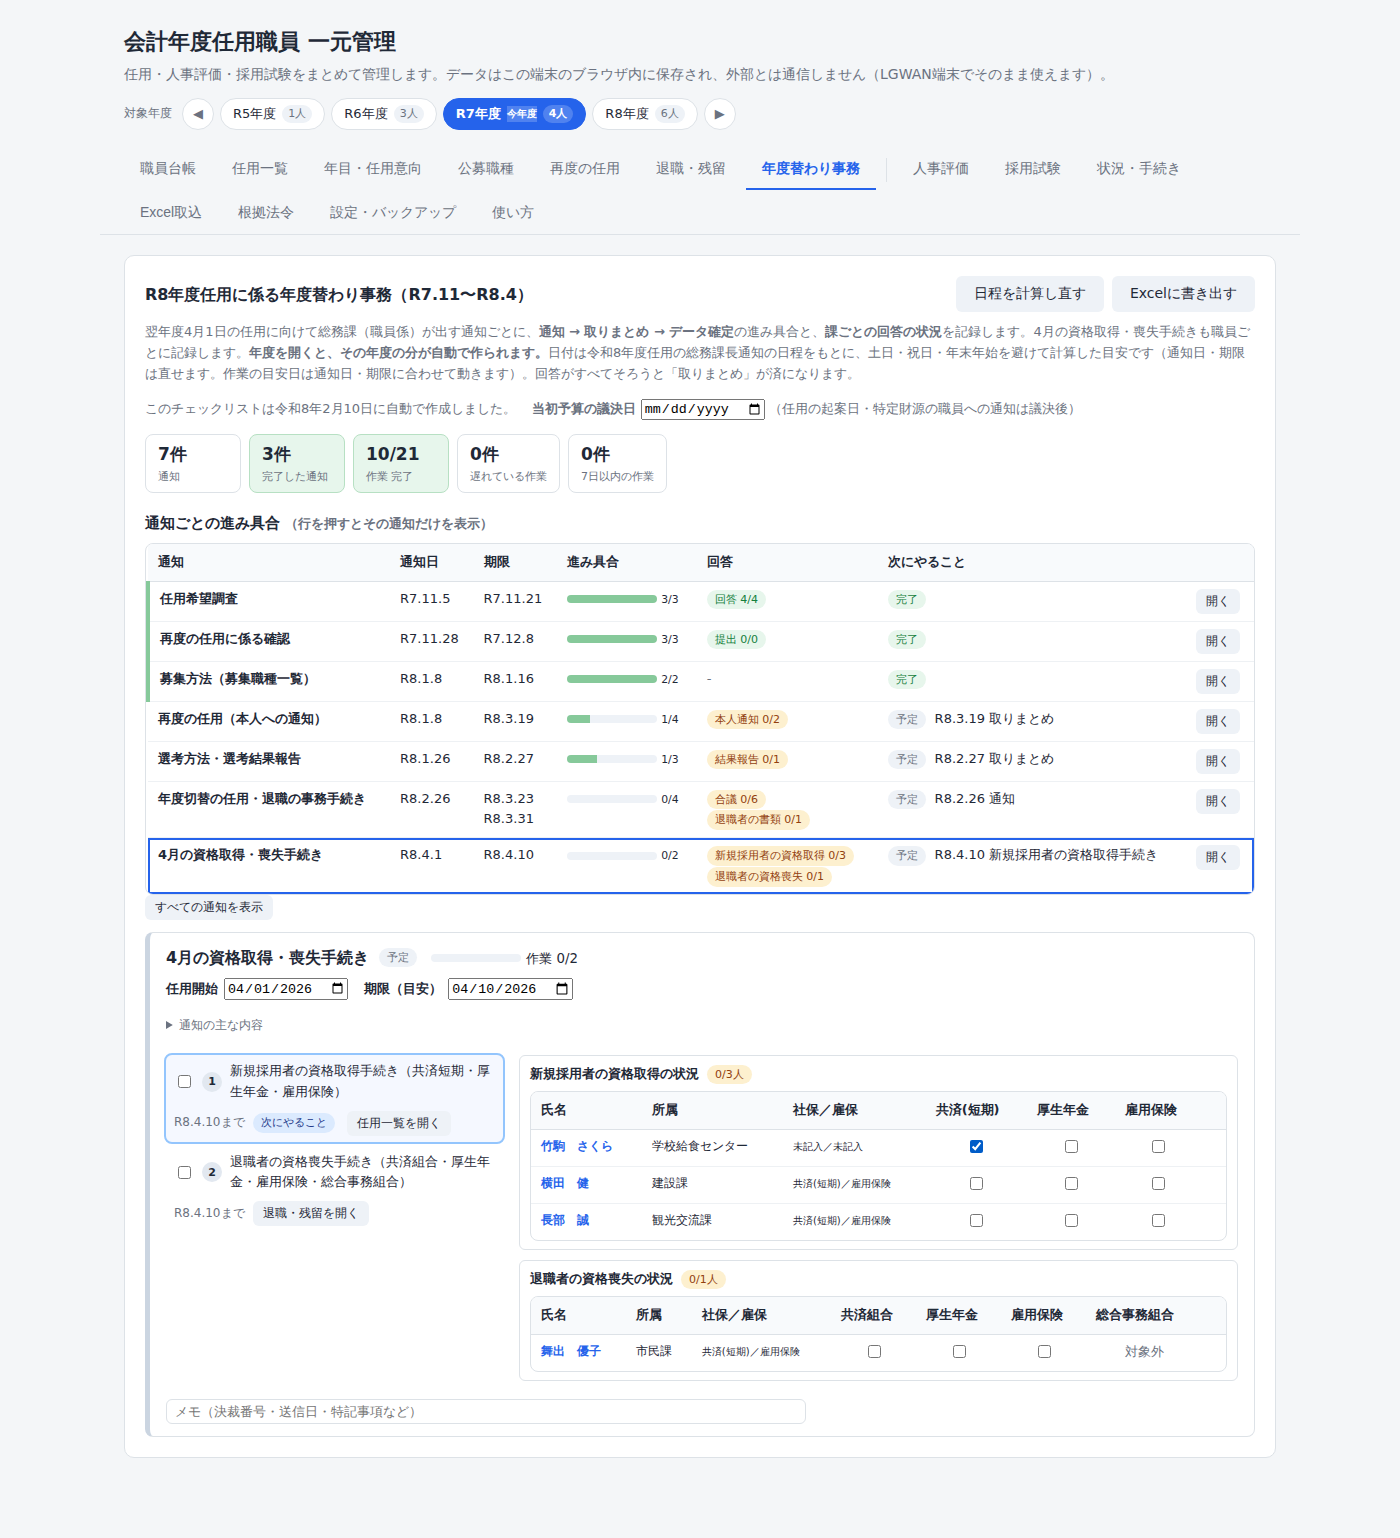
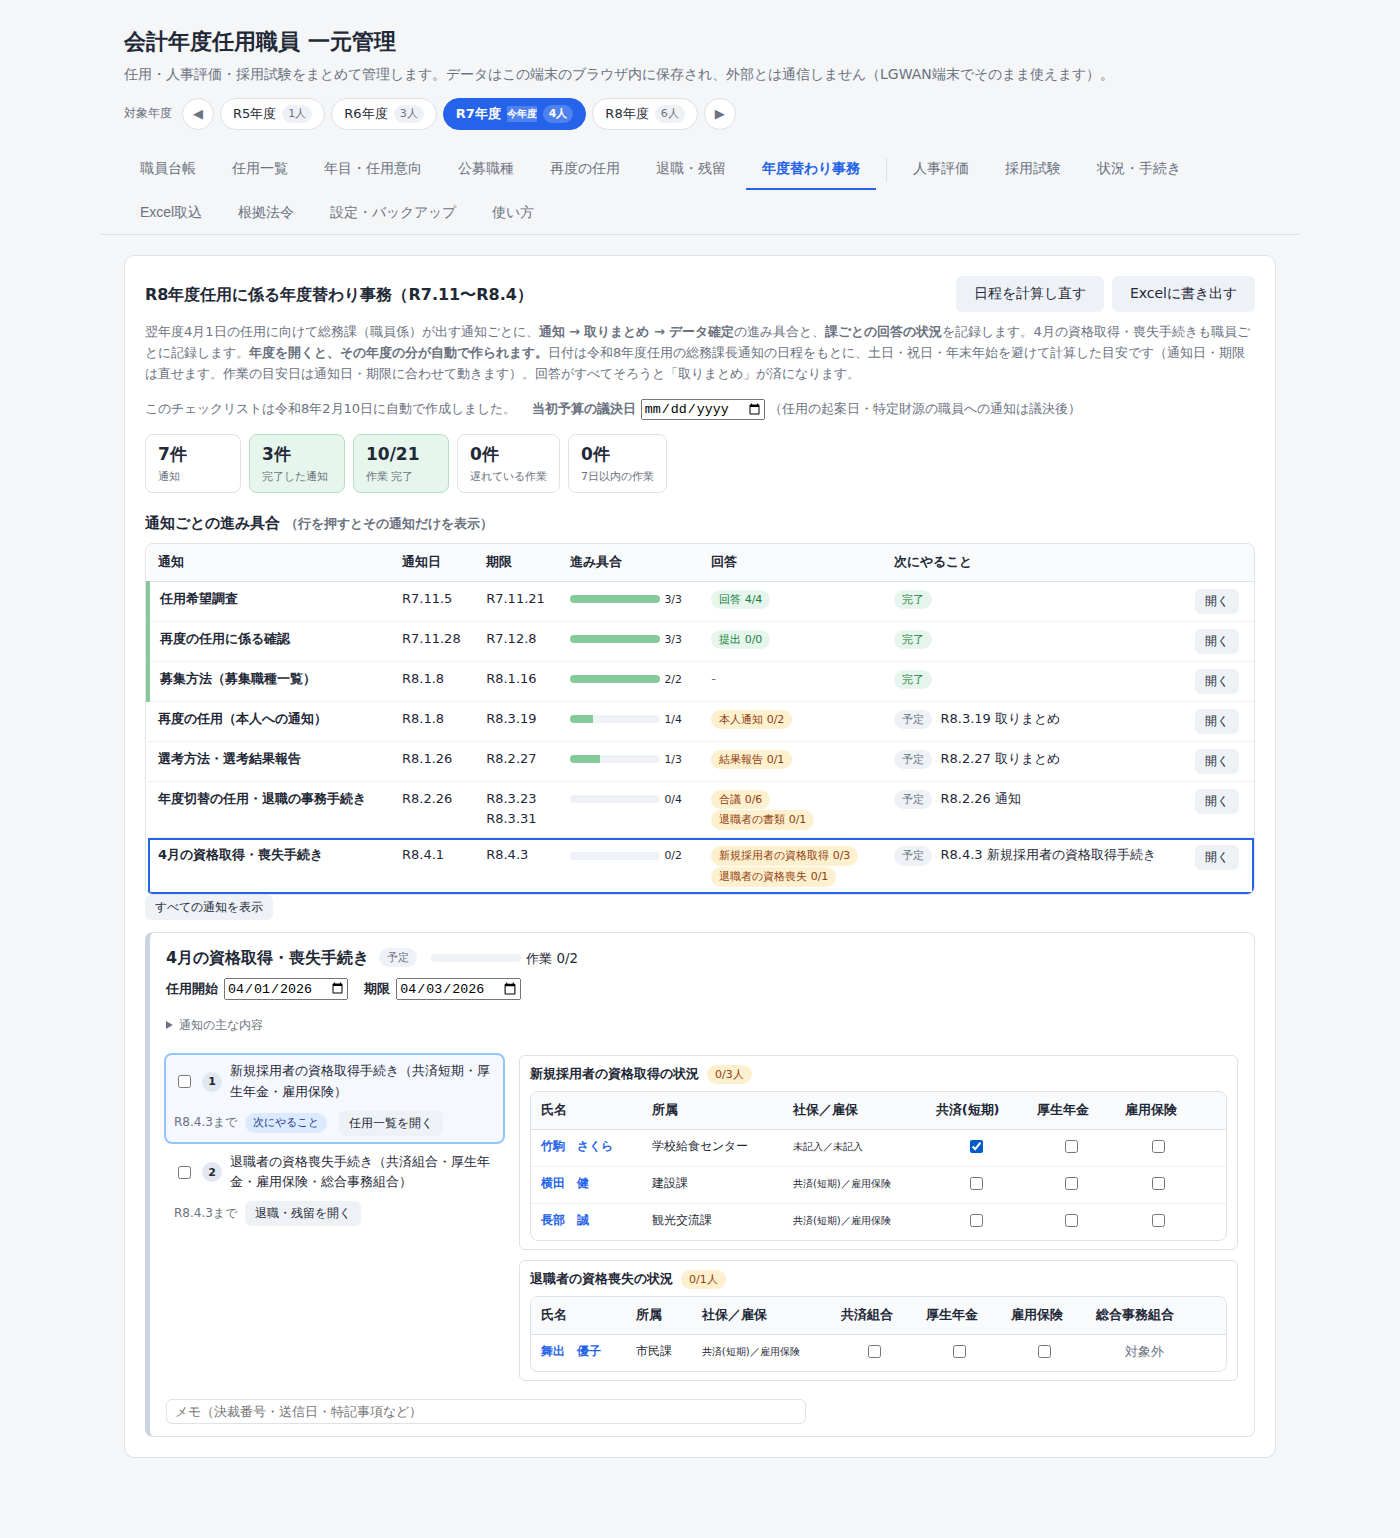
4月の資格取得・喪失手続きの期限を4月5日にする
Claude-Session: https://claude.ai/code/session_01TV6gLjN2w3tfB3MhK9eTKV

diff --git a/js/core.js b/js/core.js
@@ -1704,7 +1704,7 @@
       tracker: { type: 'kian', label: '合議', step: 'matome' },
       tracker2: { type: 'retire', label: '退職者の書類', step: 'matome', items: ['資格確認証', 'タイムカード', '名札ケース'] },
       steps: withGiketsu(YE_STEPS('記載例・任用予定者一覧を添付', '任用起案の合議・3/31退職者の書類の受付', '翌年度の任用一覧を確定、退職者の退職を登録', { kakutei: 'appoint' }, ['due2', 0], ['due2', 1]), 1) },
-    { key: 'shikaku', title: '4月の資格取得・喪失手続き', src: 'okuri', kind: 'task', notice: [4, 1], noticeDir: 'none', noticeLabel: '任用開始', due: [4, 10], dueLabel: '期限（目安）',
+    { key: 'shikaku', title: '4月の資格取得・喪失手続き', src: 'okuri', kind: 'task', notice: [4, 1], noticeDir: 'none', noticeLabel: '任用開始', due: [4, 5], dueLabel: '期限',
       points: ['新規採用者の資格取得手続き（共済短期・厚生年金・雇用保険）', '退職者の社会保険等の喪失手続き（共済組合・厚生年金・雇用保険・総合事務組合）', '対象外の欄は、任用の「社会保険」「雇保／退手」の入力（未入力なら週時間からの目安）で決めています'],
       tracker: { type: 'newHire', label: '新規採用者の資格取得', step: 'shutoku', store: 'hire', ins: true, items: ['共済(短期)', '厚生年金', '雇用保険'] },
       tracker2: { type: 'retire', label: '退職者の資格喪失', step: 'soshitsu', store: 'soshitsu', ins: true, items: ['共済組合', '厚生年金', '雇用保険', '総合事務組合'] },
@@ -1735,6 +1735,12 @@
     let changed = false;
     if (!list || list.version !== 3) {
       list = data.yearEnd[targetFy] = { version: 3, createdAt: toISO(new Date()), budgetDate: '', notices: {} };
+      changed = true;
+    }
+    // 4月の手続きの期限を4/10（仮）から4/5に変えたため、仮の日付のままなら直す
+    const sk = list.notices.shikaku;
+    if (sk && sk.dates && sk.dates.due === yearEndDate(targetFy, [4, 10], 'before')) {
+      sk.dates.due = yearEndDate(targetFy, [4, 5], 'before');
       changed = true;
     }
     for (const n of YEAR_END_NOTICES) {
